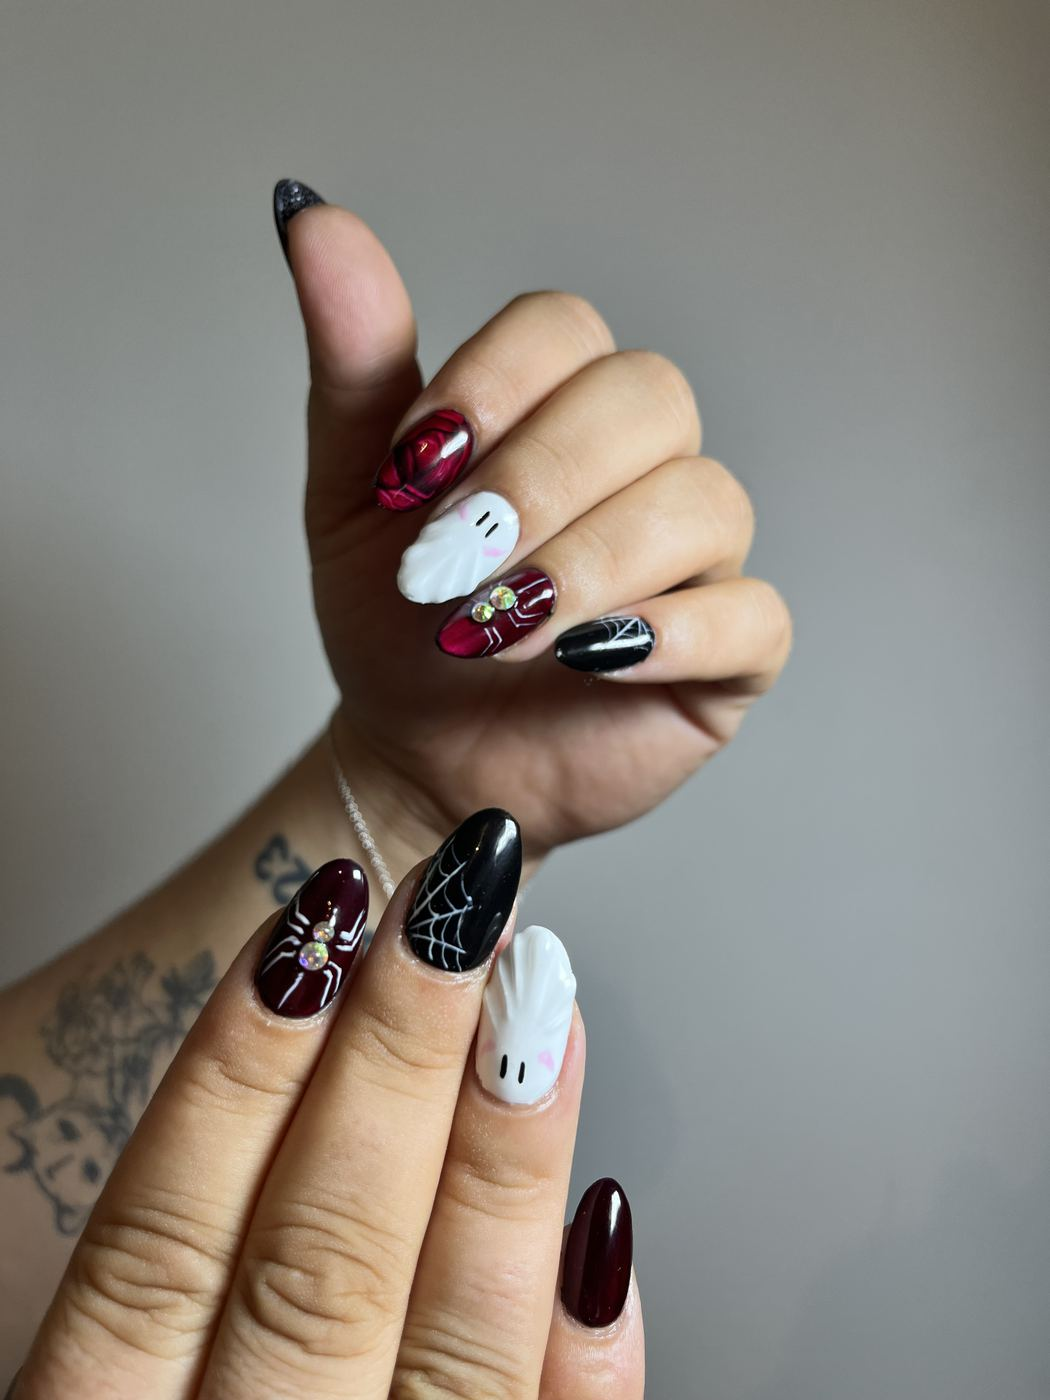
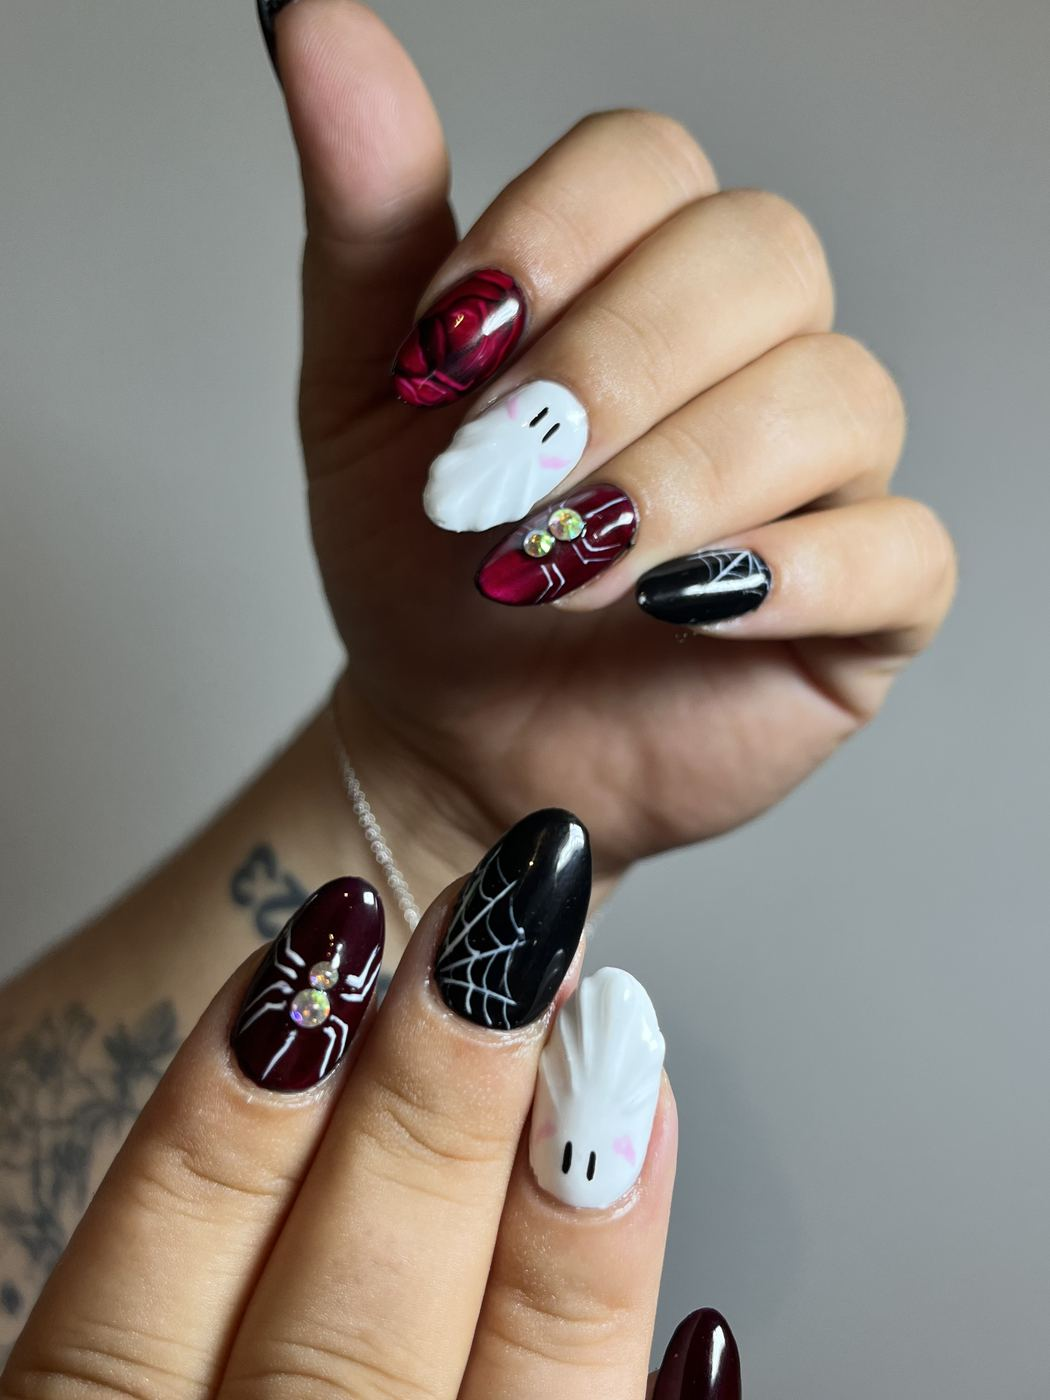
fix(v2): supprime la répétition « ongle par ongle » et zoome la photo Halloween
La formule revenait trois fois dans le premier tiers de la page, avec
« dessiné à la main » en doublon. Chaque bloc reçoit une image distincte :
- héro : garde « ongle par ongle », la formule signature
- citation d'Emelyne : « on part de votre idée, et je la dessine »
- section nail art : « puis je le réalise pinceau en main »

La 2e photo de la section nail art est recadrée sur les ongles, au même
niveau de zoom que la première.

scripts/prepare-photos.py : nouvelle option --crop (fractions x,y,l,h) pour
recadrer depuis l'original avant redimensionnement, sans perte de qualité.

diff --git a/v2.html b/v2.html
@@ -493,7 +493,7 @@
           <span class="script">moi, c'est</span>
           <h2>Emelyne</h2>
         </div>
-        <p class="about-quote">« Le nail art, c'est ma façon de faire : on part de votre idée, et je la dessine ongle par ongle. Le reste — gel, gel X, semi-permanent, soin — je le travaille avec la même exigence. »</p>
+        <p class="about-quote">« Le nail art, c'est ma façon de faire : on part de votre idée, et je la dessine. Le reste — gel, gel X, semi-permanent, soin — je le travaille avec la même exigence. »</p>
       </div>
       <div class="portrait">
         <div class="portrait-blob" aria-hidden="true"></div>
@@ -508,7 +508,7 @@
       <div>
         <span class="script">le</span>
         <h2>Nail art<br>sur mesure</h2>
-        <p>Chaque pose part d'une idée : une couleur, une inspiration, une occasion. On construit le motif ensemble, puis il est dessiné à la main, ongle par ongle.</p>
+        <p>Chaque pose part d'une idée : une couleur, une inspiration, une occasion. On construit le motif ensemble, puis je le réalise pinceau en main.</p>
         <div class="chips">
           <span class="chip chip-dark">Dessins à la main</span>
           <span class="chip chip-dark">Dégradés</span>

diff --git a/scripts/prepare-photos.py b/scripts/prepare-photos.py
@@ -16,6 +16,11 @@ Ce qu'il fait pour chaque image :
 Usage :
     python3 scripts/prepare-photos.py source.jpeg=assets/nom-final.jpg [...]
     python3 scripts/prepare-photos.py --max-cote 1600 --qualite 80 src=dest
+    python3 scripts/prepare-photos.py --crop 0.08,0.16,0.74,0.74 src=dest
+
+L'option --crop recadre avant le redimensionnement, en fractions de l'image
+d'origine (x,y,largeur,hauteur, entre 0 et 1). Elle sert à zoomer sur le
+sujet quand la photo laisse trop de vide autour — utile pour les vignettes.
 
 Exemple :
     python3 scripts/prepare-photos.py \\
@@ -46,7 +51,18 @@ def gps_present(image):
     return 0x8825 in exif
 
 
-def prepare(source, destination, max_cote=MAX_COTE, qualite=QUALITE):
+def boite_de_recadrage(taille, crop):
+    """Convertit un recadrage exprimé en fractions en pixels."""
+    x, y, largeur, hauteur = crop
+    L, H = taille
+    gauche = max(0, min(L - 1, int(round(x * L))))
+    haut = max(0, min(H - 1, int(round(y * H))))
+    droite = max(gauche + 1, min(L, int(round((x + largeur) * L))))
+    bas = max(haut + 1, min(H, int(round((y + hauteur) * H))))
+    return (gauche, haut, droite, bas)
+
+
+def prepare(source, destination, max_cote=MAX_COTE, qualite=QUALITE, crop=None):
     poids_avant = os.path.getsize(source)
     with Image.open(source) as image:
         gps = gps_present(image)
@@ -56,6 +72,8 @@ def prepare(source, destination, max_cote=MAX_COTE, qualite=QUALITE):
             image = image.convert("RGB")
 
         avant = image.size
+        if crop:
+            image = image.crop(boite_de_recadrage(image.size, crop))
         if max(image.size) > max_cote:
             ratio = max_cote / float(max(image.size))
             cible = (max(1, round(image.width * ratio)),
@@ -94,7 +112,20 @@ def main():
                            help="taille maximale du grand côté, en pixels (défaut : %d)" % MAX_COTE)
     analyseur.add_argument("--qualite", type=int, default=QUALITE,
                            help="qualité JPEG de 1 à 95 (défaut : %d)" % QUALITE)
+    analyseur.add_argument("--crop", metavar="X,Y,L,H",
+                           help="recadrage en fractions de l'image d'origine, "
+                                "par exemple 0.08,0.16,0.74,0.74")
     options = analyseur.parse_args()
+
+    crop = None
+    if options.crop:
+        try:
+            crop = tuple(float(v) for v in options.crop.split(","))
+        except ValueError:
+            crop = None
+        if not crop or len(crop) != 4 or not all(0 <= v <= 1 for v in crop):
+            print("--crop attend quatre fractions entre 0 et 1 : X,Y,L,H", file=sys.stderr)
+            return 1
 
     total_avant = total_apres = 0
     avec_gps = []
@@ -107,7 +138,7 @@ def main():
         if not os.path.exists(source):
             print("Introuvable : %s" % source, file=sys.stderr)
             return 1
-        infos = prepare(source, destination, options.max_cote, options.qualite)
+        infos = prepare(source, destination, options.max_cote, options.qualite, crop)
         total_avant += infos["poids_avant"]
         total_apres += infos["poids_apres"]
         if infos["gps"]:
